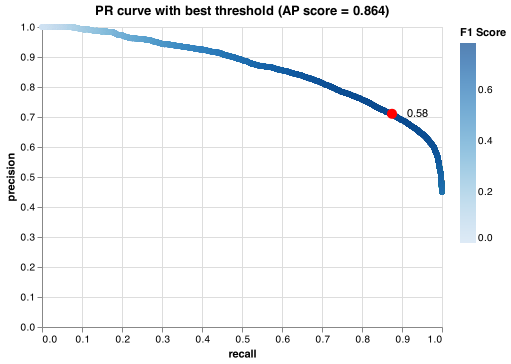
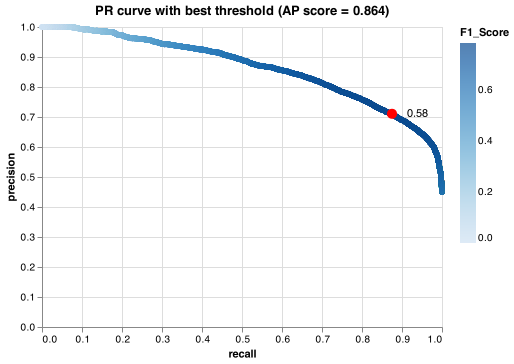
Renamed score metrics and class labels

diff --git a/doc/report.html b/doc/report.html
@@ -851,7 +851,7 @@ Figure 1.5 Distribution of income based on country(USA vs others).
 <caption>Table 3.2 Confusion Matrix on testing data</caption>
 <thead>
 <tr class="header">
-<th align="left">True.Class</th>
+<th align="left">True_Class</th>
 <th align="right">Predicted…50K</th>
 <th align="right">Predicted..50K</th>
 </tr>

diff --git a/src/model_evaluation.py b/src/model_evaluation.py
@@ -92,16 +92,16 @@ def main():
             "Accuracy": [accuracy_score(y_train, y_pred_train), accuracy_score(y_test, y_pred)],
             "Precision": [precision_score(y_train, y_pred_train), precision_score(y_test, y_pred)],
             "Recall": [recall_score(y_train, y_pred_train), recall_score(y_test, y_pred)],
-            "F1 Score": [f1_score(y_train, y_pred_train), f1_score(y_test, y_pred)],
-            "AP Score": [ap_forest_train, ap_forest_test],
-            "AUC Score": [roc_forest_train, roc_forest_test]
+            "F1_Score": [f1_score(y_train, y_pred_train), f1_score(y_test, y_pred)],
+            "AP_Score": [ap_forest_train, ap_forest_test],
+            "AUC_Score": [roc_forest_train, roc_forest_test]
         },
         index=["Train Data", "Test Data"])
 
     # Confusion Matrix for the test set
     test_confusion_matrix = pd.DataFrame(confusion_matrix(y_test, y_pred),
-                columns = ['Predicted <=50K', 'Predicted >50K'],
-                index = ['True <=50K', 'True >50K'])
+                columns = ['Predicted<=50K', 'Predicted>50K'],
+                index = ['True<=50K', 'True>50K'])
 
     # Export confusion matrix
     confusion_matrix_path = os.path.join(opt['--out_dir'], "confusion_matrix.csv")
@@ -118,10 +118,10 @@ def main():
 
     # Table of Metrics for train set
     PR_curve_df = pd.DataFrame(precision_recall_curve(y_train, y_pred_train_prob), index=["precision","recall","threshold"]).T
-    PR_curve_df['F1 Score'] =  2 * (PR_curve_df['precision'] * PR_curve_df['recall'])/(PR_curve_df['precision'] + PR_curve_df['recall'])
+    PR_curve_df['F1_Score'] =  2 * (PR_curve_df['precision'] * PR_curve_df['recall'])/(PR_curve_df['precision'] + PR_curve_df['recall'])
     
     # Threshold to get best F1 score
-    max_f1_df = PR_curve_df.iloc[PR_curve_df["F1 Score"].idxmax()].to_frame().T
+    max_f1_df = PR_curve_df.iloc[PR_curve_df["F1_Score"].idxmax()].to_frame().T
     best_thres = max_f1_df['threshold'].iloc[0]
     max_f1_df
 
@@ -129,7 +129,7 @@ def main():
     PR_curve = alt.Chart(PR_curve_df).mark_circle().encode(
         x="recall",
         y="precision",
-        color="F1 Score"
+        color="F1_Score"
     )
 
     max_f1_point = alt.Chart(max_f1_df, 
@@ -162,9 +162,9 @@ def main():
             "Accuracy": [accuracy_score(y_train, y_pred_train_thres), accuracy_score(y_test, y_pred_thres)],
             "Precision": [precision_score(y_train, y_pred_train_thres), precision_score(y_test, y_pred_thres)],
             "Recall": [recall_score(y_train, y_pred_train_thres), recall_score(y_test, y_pred_thres)],
-            "F1 Score": [f1_score(y_train, y_pred_train_thres), f1_score(y_test, y_pred_thres)],
-            "AP Score": [average_precision_score(y_train, y_pred_train_thres), average_precision_score(y_test, y_pred_thres)],
-            "AUC Score": [roc_auc_score(y_train, y_pred_train_thres), roc_auc_score(y_test, y_pred_thres)]
+            "F1_Score": [f1_score(y_train, y_pred_train_thres), f1_score(y_test, y_pred_thres)],
+            "AP_Score": [average_precision_score(y_train, y_pred_train_thres), average_precision_score(y_test, y_pred_thres)],
+            "AUC_Score": [roc_auc_score(y_train, y_pred_train_thres), roc_auc_score(y_test, y_pred_thres)]
         },
         index=["Train Data w/ best threshold", "Test Data w/ best threshold"])
 
@@ -215,9 +215,9 @@ def main():
         "Accuracy" : model_perf_thres_df.loc["Test Data w/ best threshold"]["Accuracy"],
         "Precision" : model_perf_thres_df.loc["Test Data w/ best threshold"]["Precision"],
         "Recall" : model_perf_thres_df.loc["Test Data w/ best threshold"]["Recall"],
-        "F1 Score" : model_perf_thres_df.loc["Test Data w/ best threshold"]["F1 Score"],
-        "Average Precision Score" : ap_forest_test,
-        "AUC Score" : roc_forest_test},
+        "F1_Score" : model_perf_thres_df.loc["Test Data w/ best threshold"]["F1_Score"],
+        "Average_Precision_Score" : ap_forest_test,
+        "AUC_Score" : roc_forest_test},
         index = ["Test Data Metrics"]).T
 
     # Export test data metrics dataframe
